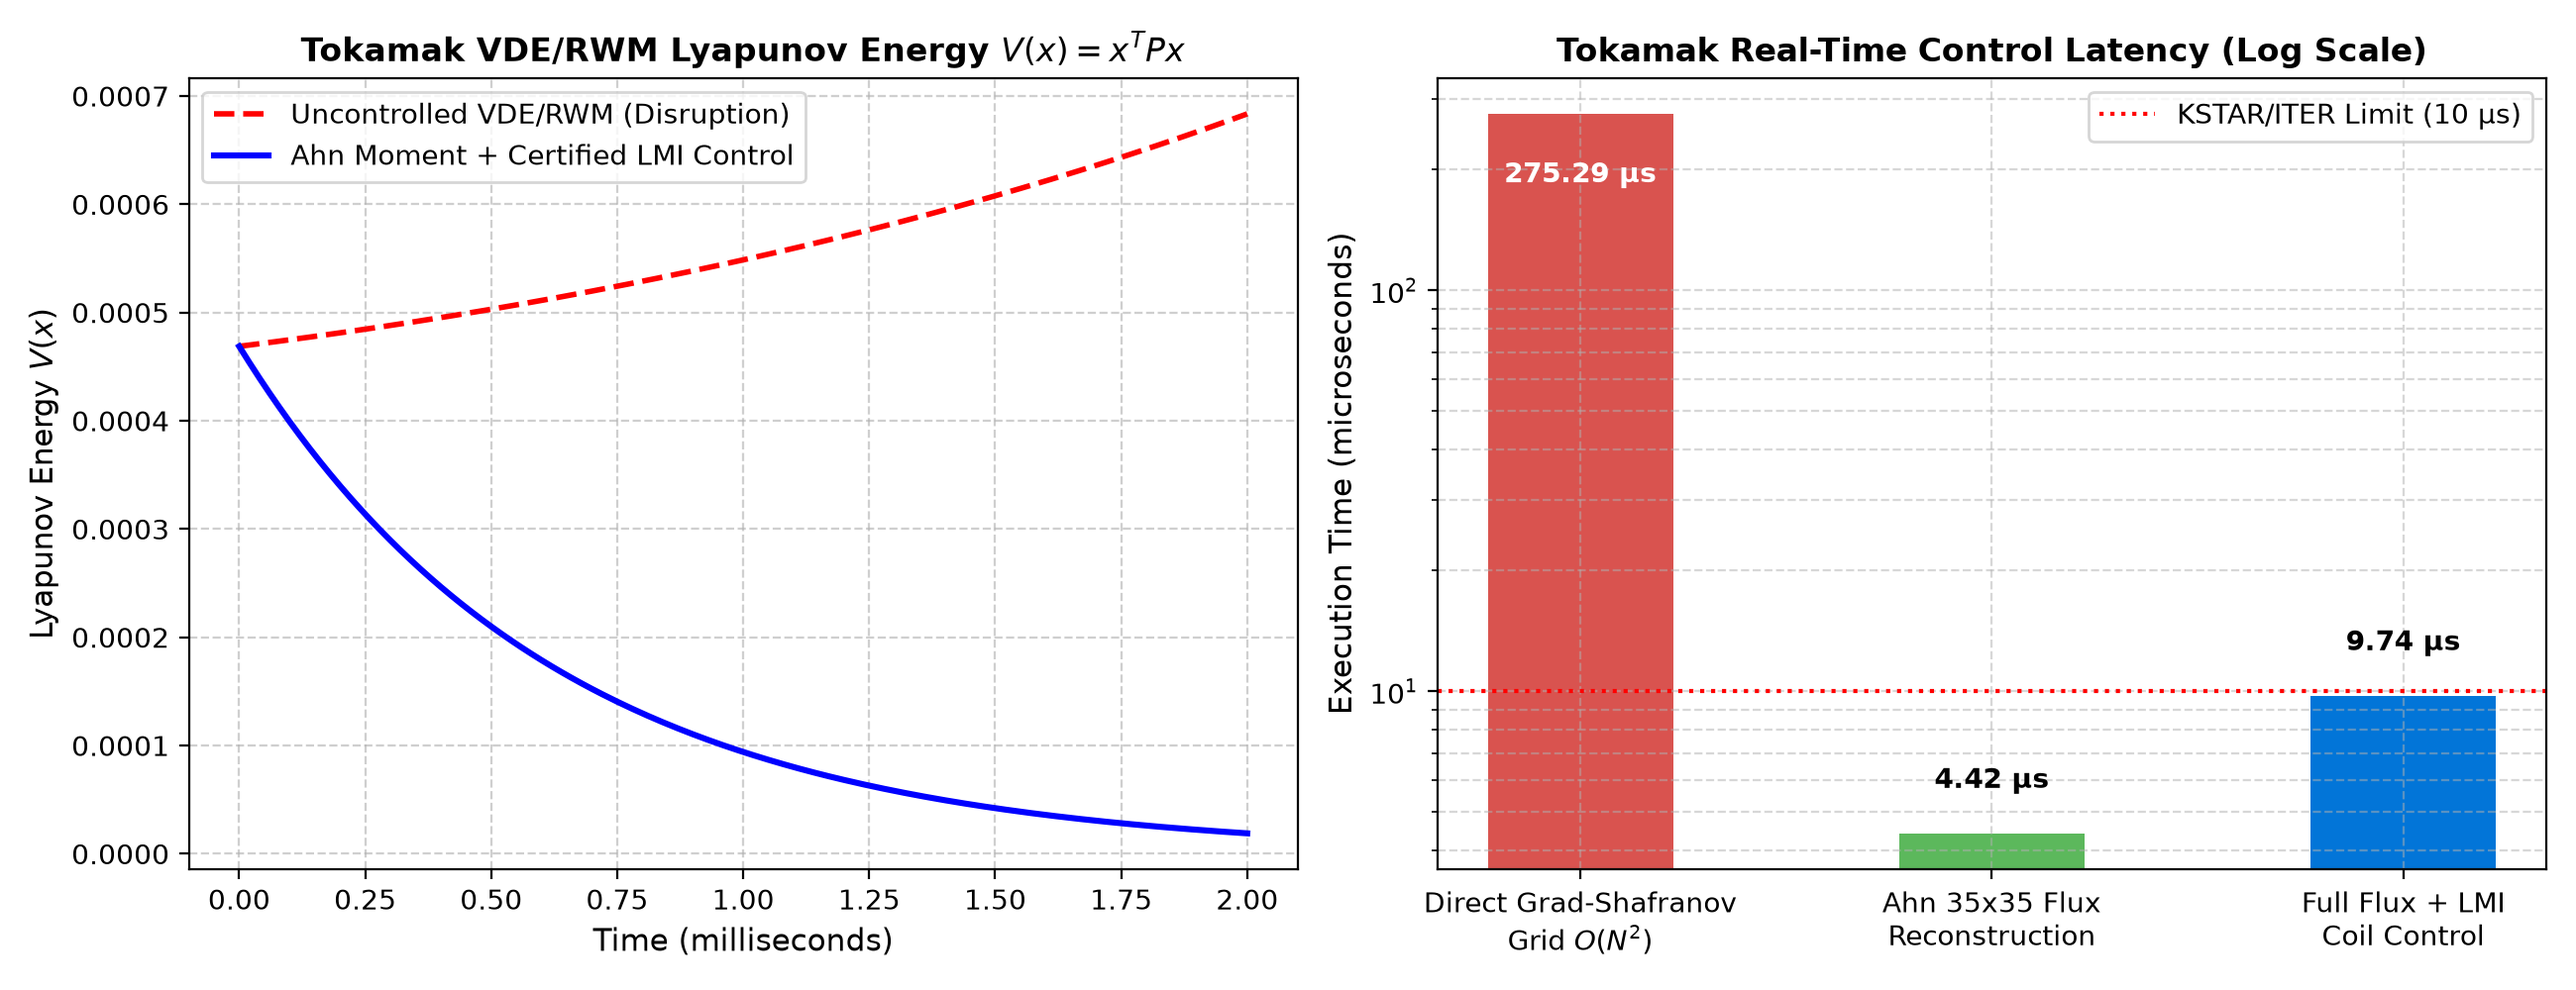
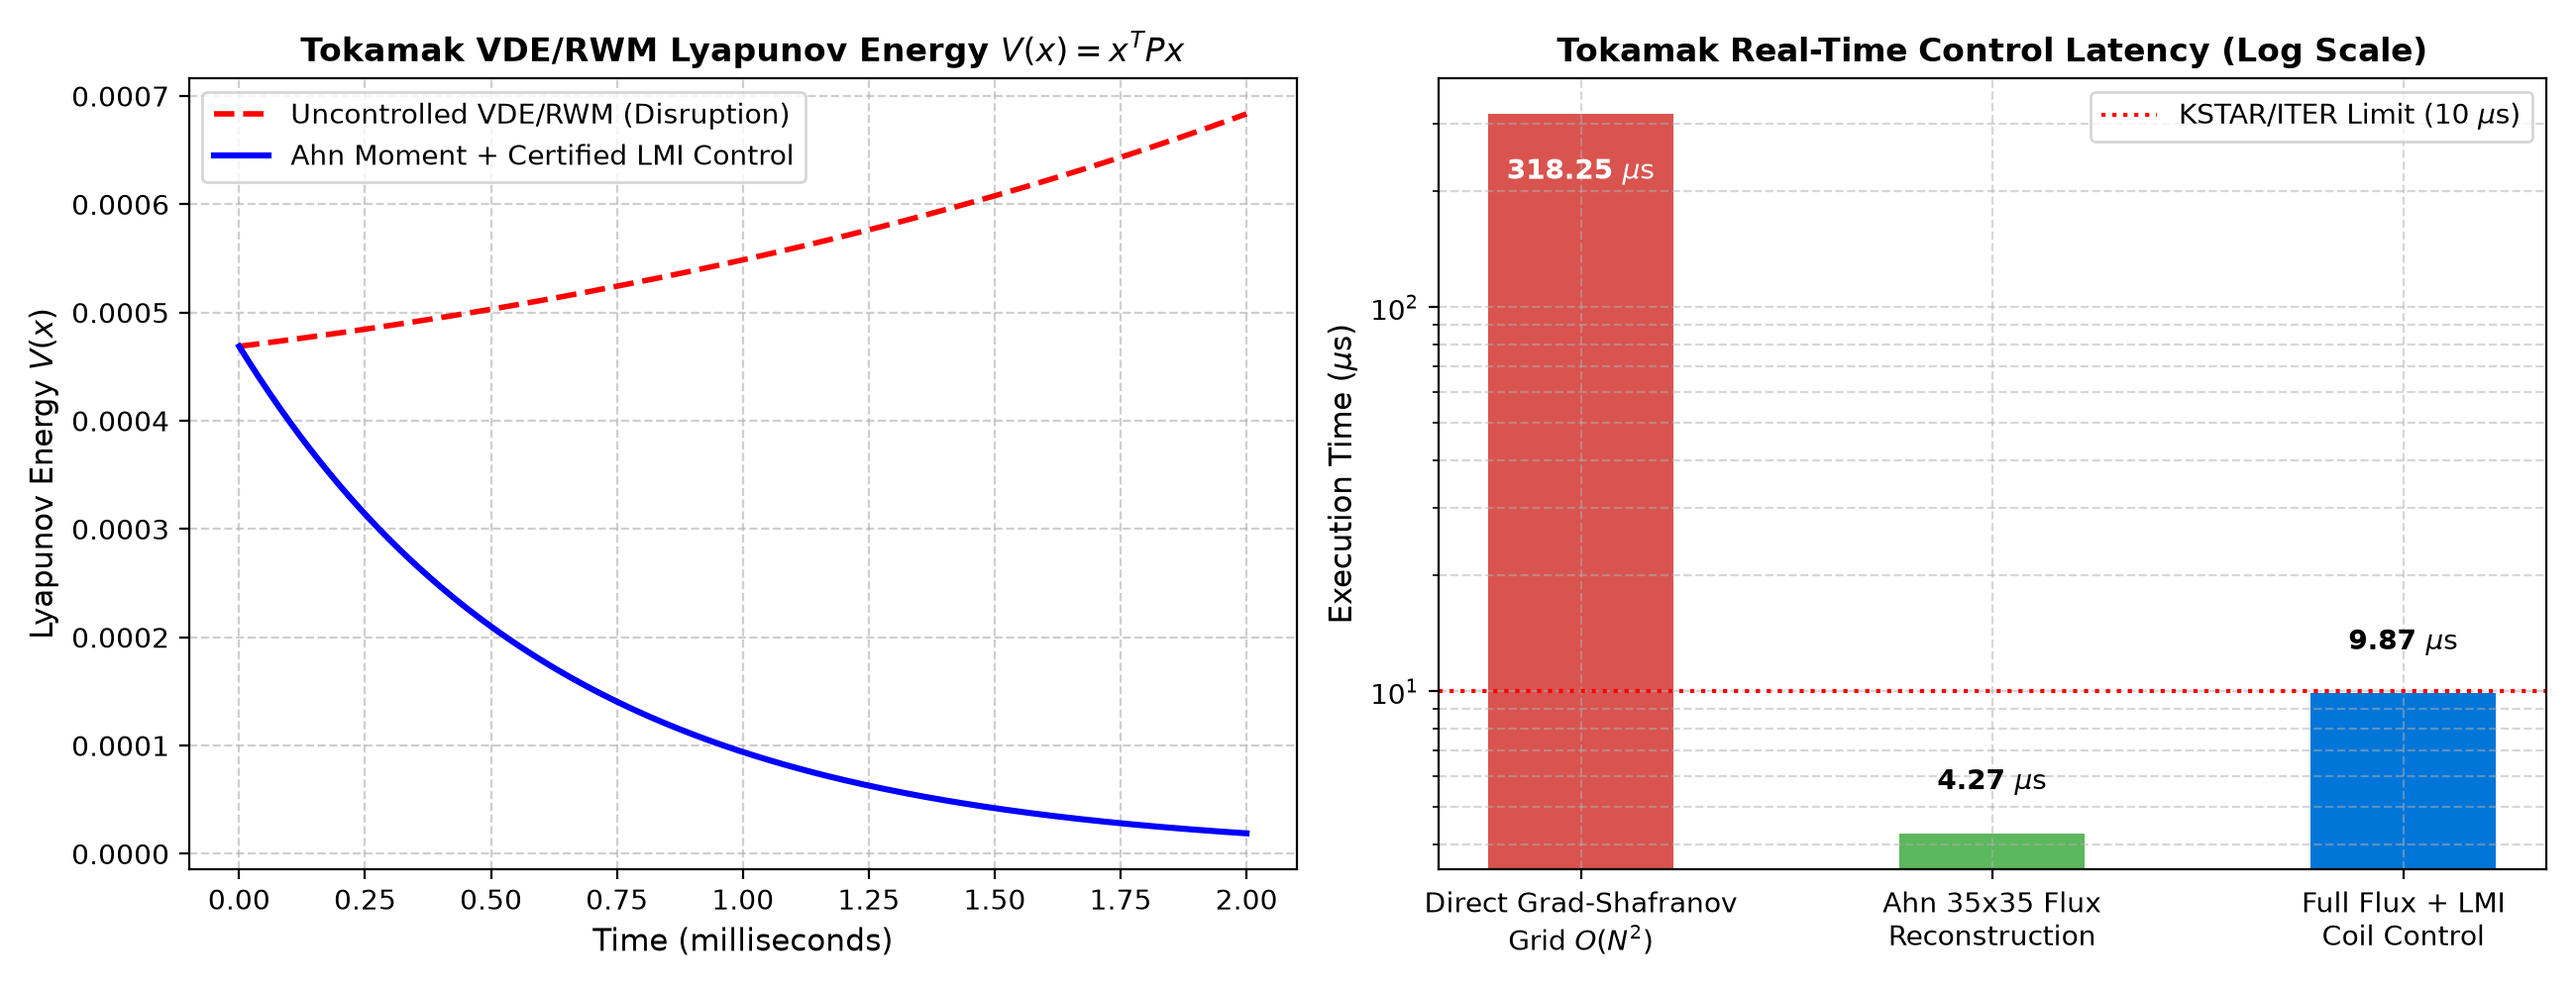
Update figure labels, equation refs, and C++20 header

diff --git a/cpp/tokamak_moment_engine.hpp b/cpp/tokamak_moment_engine.hpp
@@ -1,0 +1,45 @@
+// Copyright (c) 2026 Dr. Hyo E. Ahn (ahn@aya.yale.edu)
+// C++20 Deterministic 35x35 Moment-Space Tokamak Equilibrium & LMI Controller
+#pragma once
+#include <array>
+#include <cstddef>
+
+namespace kstar::tokamak {
+
+constexpr std::size_t M_MOMENTS = 35;
+constexpr std::size_t P_COILS = 4;
+
+struct TokamakMomentOperator {
+    std::array<std::array<double, M_MOMENTS>, M_MOMENTS> K{};
+    std::array<double, M_MOMENTS> v0{};
+    std::array<std::array<double, M_MOMENTS>, P_COILS> K_lmi{};
+    std::array<double, M_MOMENTS> s_ref{};
+
+    [[nodiscard]] constexpr std::array<double, M_MOMENTS>
+    reconstruct_flux_coefficients(const std::array<double, M_MOMENTS>& s) const noexcept {
+        std::array<double, M_MOMENTS> v = v0;
+        for (std::size_t i = 0; i < M_MOMENTS; ++i) {
+            double acc = v[i];
+            for (std::size_t j = 0; j < M_MOMENTS; ++j) {
+                acc += K[i][j] * s[j];
+            }
+            v[i] = acc;
+        }
+        return v;
+    }
+
+    [[nodiscard]] constexpr std::array<double, P_COILS>
+    compute_lmi_coil_command(const std::array<double, M_MOMENTS>& s) const noexcept {
+        std::array<double, P_COILS> u{};
+        for (std::size_t p = 0; p < P_COILS; ++p) {
+            double acc = 0.0;
+            for (std::size_t j = 0; j < M_MOMENTS; ++j) {
+                acc -= K_lmi[p][j] * (s[j] - s_ref[j]);
+            }
+            u[p] = acc;
+        }
+        return u;
+    }
+};
+
+} // namespace kstar::tokamak

diff --git a/Test/benchmark_tokamak_control.py b/Test/benchmark_tokamak_control.py
@@ -206,14 +206,19 @@ def run_tokamak_benchmark(
     bars = axes[1].bar(methods, times, color=colors, width=0.45)
     axes[1].set_yscale("log")
     axes[1].set_title("Tokamak Real-Time Control Latency (Log Scale)", fontsize=12, fontweight="bold")
-    axes[1].set_ylabel("Execution Time (microseconds)", fontsize=11)
-    axes[1].axhline(y=deadline_us, color="red", linestyle=":", label=f"KSTAR/ITER Limit ({deadline_us:.0f} µs)")
+    axes[1].set_ylabel(r"Execution Time ($\mu\mathrm{s}$)", fontsize=11)
+    axes[1].axhline(
+        y=deadline_us,
+        color="red",
+        linestyle=":",
+        label=rf"KSTAR/ITER Limit ({deadline_us:.0f} $\mu\mathrm{{s}}$)",
+    )
     for bar in bars:
         yval = bar.get_height()
         axes[1].text(
             bar.get_x() + bar.get_width() / 2.0,
             yval * 0.65 if yval > 100 else yval * 1.25,
-            f"{yval:.2f} µs",
+            rf"{yval:.2f} $\mu\mathrm{{s}}$",
             ha="center",
             va="bottom",
             fontweight="bold",

diff --git a/README.md b/README.md
@@ -85,3 +85,4 @@ python3 Test/benchmark_tokamak_control.py
 
 ## 5. License & Priority Notice
 Copyright (c) 2026 Dr. Hyo E. Ahn (`ahn@aya.yale.edu`). All rights reserved. Originated from the author's 1994 unpublished mathematical derivations on closed-form moment-space dimension reduction.
+
